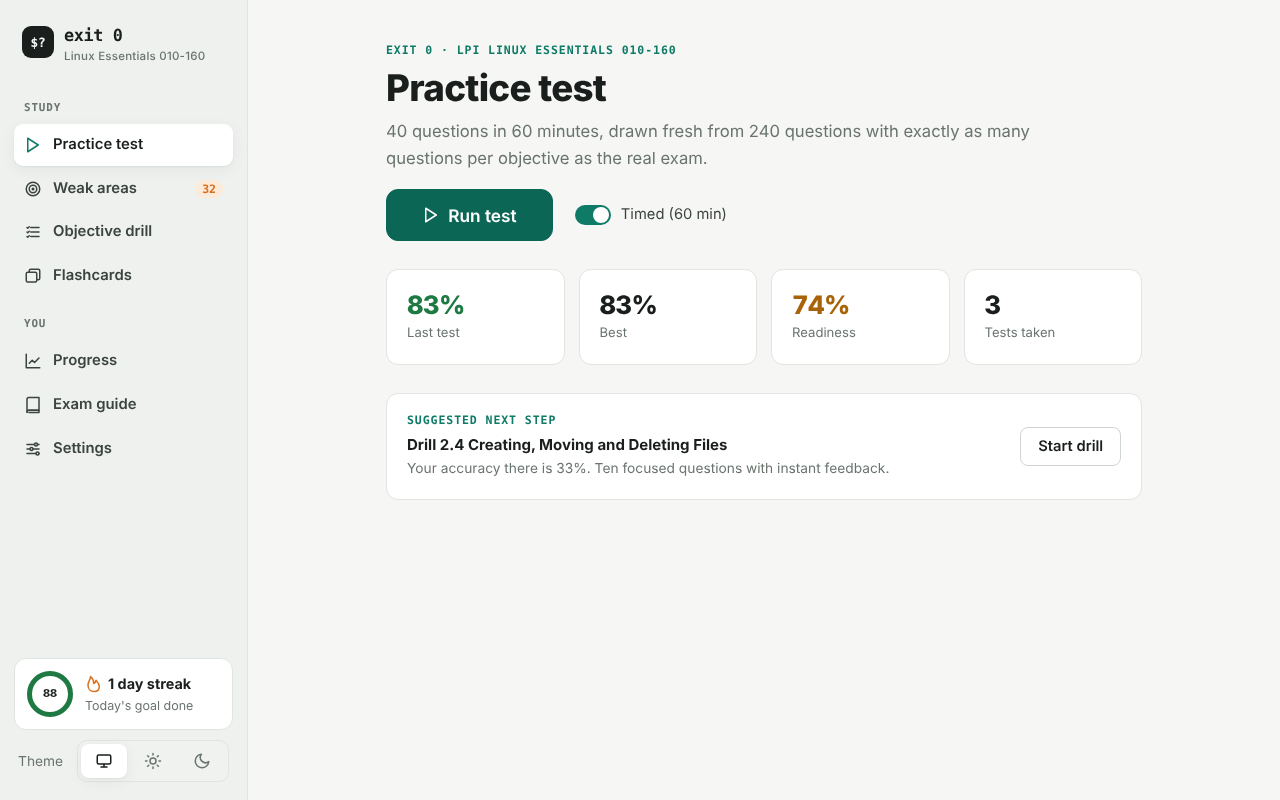
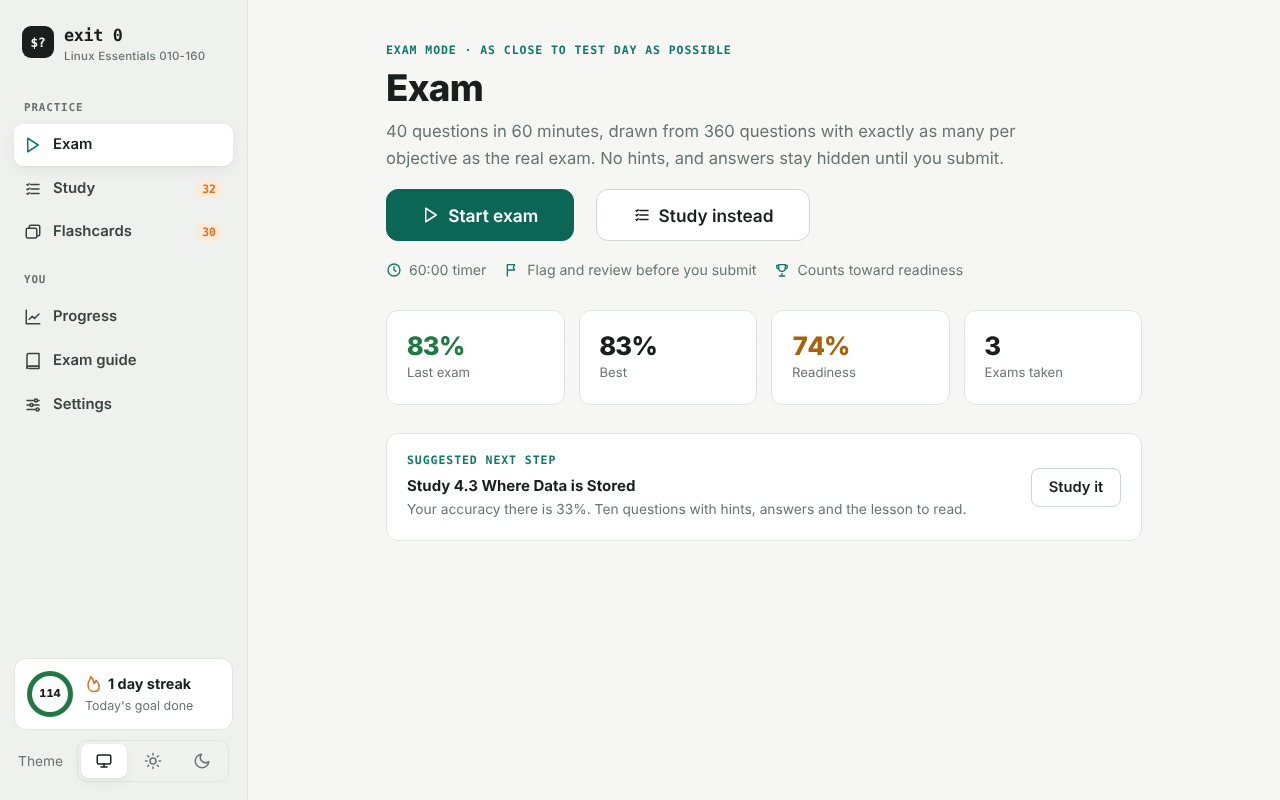
README and screenshots: Exam and Study modes, install from the repos
Claude-Session: https://claude.ai/code/session_013buaBu2QZcnxJpMWYwJf9G

diff --git a/README.md b/README.md
@@ -24,7 +24,7 @@
   <a href="#ubuntu--debian"><b>Ubuntu / Debian</b></a>
 </p>
 
-![exit 0 practice test](docs/screenshots/home.png)
+![exit 0 exam mode](docs/screenshots/home.png)
 
 ## Get it
 
@@ -32,25 +32,38 @@
 |---|---|---|
 | **Any browser** | [krink192.github.io/exit0-linux-essentials](https://krink192.github.io/exit0-linux-essentials/) | Nothing to install. Works on phones too. |
 | **Windows 10 / 11** | [Download Exit0.exe](https://github.com/krink192/exit0-linux-essentials/releases/latest/download/Exit0.exe) | A single file with no installer. |
-| **Fedora** | `sudo dnf install https://github.com/krink192/exit0-linux-essentials/releases/latest/download/exit0.rpm` | Native GTK app. |
-| **Ubuntu / Debian / Mint / Pop!_OS** | [Download exit0.deb](https://github.com/krink192/exit0-linux-essentials/releases/latest/download/exit0.deb), then `sudo apt install ./exit0.deb` | Native GTK app. |
+| **Fedora** | [Add the repository](#fedora), then `sudo dnf install exit0` | Signed packages. Updates arrive with `dnf upgrade`. |
+| **Ubuntu / Debian / Mint / Pop!_OS** | [Add the repository](#ubuntu--debian), then `sudo apt install exit0` | Signed repository. Updates arrive with `apt upgrade`. |
 
 All versions are the same app, work offline once installed, and are free.
 
 ### Fedora
 ```bash
-sudo dnf install https://github.com/krink192/exit0-linux-essentials/releases/latest/download/exit0.rpm
+sudo curl -fsSLo /etc/yum.repos.d/exit0.repo https://krink192.github.io/exit0-linux-essentials/repo/exit0.repo
+sudo dnf install exit0
 exit0            # or open "exit 0" from your app menu
 ```
-To update, run the same `dnf install` command after a new release. To remove it, run `sudo dnf remove exit0`.
+The first install asks you to accept the exit 0 signing key; answer `y`. After that, `sudo dnf upgrade` keeps it
+up to date along with the rest of your system. To remove it, run `sudo dnf remove exit0` and delete
+`/etc/yum.repos.d/exit0.repo`.
+
+If you don't want a repository, install a single release with
+`sudo dnf install https://github.com/krink192/exit0-linux-essentials/releases/latest/download/exit0.rpm`.
 
 ### Ubuntu / Debian
 ```bash
-wget https://github.com/krink192/exit0-linux-essentials/releases/latest/download/exit0.deb
-sudo apt install ./exit0.deb
+sudo install -d -m 0755 /etc/apt/keyrings
+sudo wget -qO /etc/apt/keyrings/exit0.asc https://krink192.github.io/exit0-linux-essentials/repo/exit0.asc
+sudo wget -qO /etc/apt/sources.list.d/exit0.sources https://krink192.github.io/exit0-linux-essentials/repo/exit0.sources
+sudo apt update && sudo apt install exit0
 exit0            # or open "exit 0" from your app menu
 ```
-To update, download the new `.deb` and install it the same way. To remove it, run `sudo apt remove exit0`.
+After that, `sudo apt upgrade` keeps it up to date. To remove it, run `sudo apt remove exit0` and delete the two
+files you downloaded above.
+
+If you don't want a repository, download
+[exit0.deb](https://github.com/krink192/exit0-linux-essentials/releases/latest/download/exit0.deb) and run
+`sudo apt install ./exit0.deb`.
 
 ### Windows
 Download **[Exit0.exe](https://github.com/krink192/exit0-linux-essentials/releases/latest/download/Exit0.exe)** and run it.
@@ -60,39 +73,59 @@ It uses the Microsoft Edge WebView2 runtime that comes with Windows 10 and 11.
 **Where progress is saved:** in your browser for the web version, `~/.local/share/exit0` on Linux, and `%APPDATA%\Exit0`
 on Windows. To move it between devices, use **Settings → Your data**.
 
+**Linux window opens and closes right away?** Update to the latest version. If it still happens, run
+`GDK_BACKEND=x11 exit0` and [open an issue](https://github.com/krink192/exit0-linux-essentials/issues/new?template=bug.yml)
+with the terminal output.
+
+## Two ways to practice
+
+| | **Exam** | **Study** |
+|---|---|---|
+| Goal | Test yourself the way the real exam will | Learn the material and fix weak spots |
+| Questions | 40, with exactly as many per objective as the real exam | You choose: objectives, difficulty, how many, and all, unseen or missed |
+| Time | 60-minute countdown | No limit |
+| Answers | Hidden until you submit | Checked as you go, with the explanation |
+| Help | None, as on test day | A hint for every question, plus links to the LPI lesson and matching flashcards |
+| Readiness score | Counts | Doesn't count |
+
+| Build a study session | Hint when you're stuck | What to read next |
+|---|---|---|
+| ![](docs/screenshots/study.png) | ![](docs/screenshots/study-hint.png) | ![](docs/screenshots/study-feedback.png) |
+
 ## What's inside
 
-- **Practice tests.** Each test has 40 questions and a 60-minute timer, drawn fresh from 240 questions, with
-  **exactly** as many questions per objective as the real exam (LPI: weight = number of questions).
-  - **Timed** is on by default. Turn it off to practice at your own pace.
-  - **Show answers as I go** is off by default, which matches the real exam. Turn it on to see the correct answer and
-    explanation after each question. These tests are labeled and don't count toward your readiness score.
-- **Progress.** A readiness score (average of your last three exam-condition tests), score trend, troubled sections,
+- **360 questions.** Single-answer, choose-two/three and type-the-command questions, each tagged *Recall*,
+  *Apply* or *Analyze* (129, 152 and 79 of them) and each with a written explanation and a hint.
+- **Exam mode.** A fresh 40-question exam every time, matching LPI's blueprint exactly (weight = number of
+  questions). Flag questions, review them, then submit and see every answer explained.
+- **Study mode.** Pick objectives, difficulty and question count, or start with one click from *Review my misses*,
+  *Weak objectives* or *New questions*.
+- **Progress.** A readiness score (the average of your last three exams), score trend, troubled sections,
   mastery of each objective, accuracy by difficulty, and a full history you can review.
-- **Weak areas.** Replays the questions you missed, then your weakest objectives, with instant explanations.
-- **Objective drill.** Pick any of the 19 objectives and practice only those.
 - **Flashcards.** 250 cards in two decks, *Concepts* and *Commands & files*, with spaced repetition, so cards
   you miss come back first. There's also a searchable glossary.
 - **Exam guide.** Format, scoring, the blueprint with links to LPI's free lessons, a study plan and test-day tips.
 - **Daily goal and streak.** Keeps you studying a little every day.
-- **Difficulty tags.** Every question is tagged *Recall*, *Apply* or *Analyze*, so you can see whether you
-  know the facts but struggle with exact syntax or reading output.
+- **Report a problem.** Every question has a link that opens a GitHub issue with its ID filled in.
 - **Light and dark themes,** following your system setting or chosen in Settings.
 
-| Progress | Flashcards (dark) | Drill feedback |
-|---|---|---|
-| ![](docs/screenshots/progress.png) | ![](docs/screenshots/flashcards-dark.png) | ![](docs/screenshots/drill.png) |
+| Progress | Flashcards (dark) |
+|---|---|
+| ![](docs/screenshots/progress.png) | ![](docs/screenshots/flashcards-dark.png) |
 
 ## How the content was made and checked
 
 - Questions and flashcards were written from LPI's published 010-160 objectives (v1.6) and the free
   lessons at learning.lpi.org. Every item on each objective's "terms and utilities" list is covered.
-- **120 command-based questions were run on a real Linux system** (`tools/verify.py`), including every
+- **166 command-based questions were run on a real Linux system** (`tools/verify.py`), including every
   accepted fill-in answer. The output must match the answer key.
-- The build checks blueprint counts, duplicates, and whether the correct answer tends to be the longest option.
-- `node tools/test_core.js` tests the exam logic, including 200 randomly generated tests that are each
-  checked against the blueprint.
-- Every release installs the `.deb` on Ubuntu and the `.rpm` on Fedora before publishing them.
+- The build checks blueprint counts, duplicates, that every question has a hint, and whether the correct
+  answer tends to be the longest option (it is the longest in 14% of single-answer questions, below the 25%
+  you'd expect by chance).
+- `node tools/test_core.js` tests the exam and study logic, including 200 randomly generated exams that are
+  each checked against the blueprint, and checks that no hint gives away a typed answer.
+- Every release installs the `.deb` on Ubuntu and the `.rpm` on Fedora before publishing them, checks the
+  `.rpm` signature, and then installs both again from the live signed repositories.
 
 These are **original practice questions, not real exam questions**. LPI scores the real exam from
 200 to 800, and 500 passes, with no published percentage. Treat 80% here as a readiness signal.
@@ -101,24 +134,35 @@ These are **original practice questions, not real exam questions**. LPI scores t
 
 ### Project layout
 ```
-docs/                 The web app (served by GitHub Pages)
+docs/                 The web app (published by GitHub Pages)
   index.html, css/, js/core.js (logic), js/app.js (interface)
   data/bank.js, data/cards.js   generated, do not edit by hand
 desktop/              Windows wrapper (pywebview), Linux launcher + .deb/.rpm config (desktop/linux), app icon
-.github/workflows/    Tests on every push; Windows .exe, .deb and .rpm builds on each release
+.github/workflows/    tests.yml (every push), release.yml (desktop builds), pages.yml (website + package repo)
 bank.json             The question bank
-tools/                Question sources t1.py–t5.py, cards.py, build.py, verify.py, test_core.js
+tools/                Questions t1.py–t6.py, hints.py, cards.py, build.py, verify.py, test_core.js
 ```
 
 ### Releasing
 ```bash
 gh release create v1.2.0 --title "exit 0 v1.2.0" --notes "What changed"
 ```
-GitHub Actions (`.github/workflows/release.yml`) runs the tests, builds `Exit0.exe`, `exit0.deb` and `exit0.rpm`,
-checks the Linux packages by installing them on Ubuntu and Fedora, and then attaches all three to the release.
+`release.yml` runs the tests, builds `Exit0.exe`, `exit0.deb` and `exit0.rpm`, signs the `.rpm`, installs both
+Linux packages on Ubuntu and Fedora, and attaches all three to the release. When it finishes, `pages.yml`
+republishes the website and the signed dnf/apt repository, then installs from that repository to make sure it works.
 
-### GitHub Pages
-In the repository settings, open **Pages**, set Source to *Deploy from a branch*, then choose `main` and `/docs`.
+### One-time setup: website and package signing
+1. **Pages:** Settings → Pages → Source: **GitHub Actions**, or run
+   `gh api -X PUT repos/krink192/exit0-linux-essentials/pages -f build_type=workflow`.
+2. **Signing key:** create a key that is used only for packages, and store it as a repository secret:
+   ```bash
+   gpg --batch --pinentry-mode loopback --passphrase '' \
+       --quick-gen-key "exit 0 packages <krink192@users.noreply.github.com>" rsa4096 sign never
+   gpg --armor --export-secret-keys "exit 0 packages" | gh secret set PACKAGE_SIGNING_KEY
+   ```
+   Keep a backup of the key (`gpg --armor --export-secret-keys "exit 0 packages" > exit0-signing-key.asc`,
+   stored somewhere safe and offline). Without the secret, releases still build, but the `.rpm` stays unsigned
+   and only the website is published.
 
 ## Contributing
 Corrections and new questions are welcome. See [CONTRIBUTING.md](CONTRIBUTING.md).
